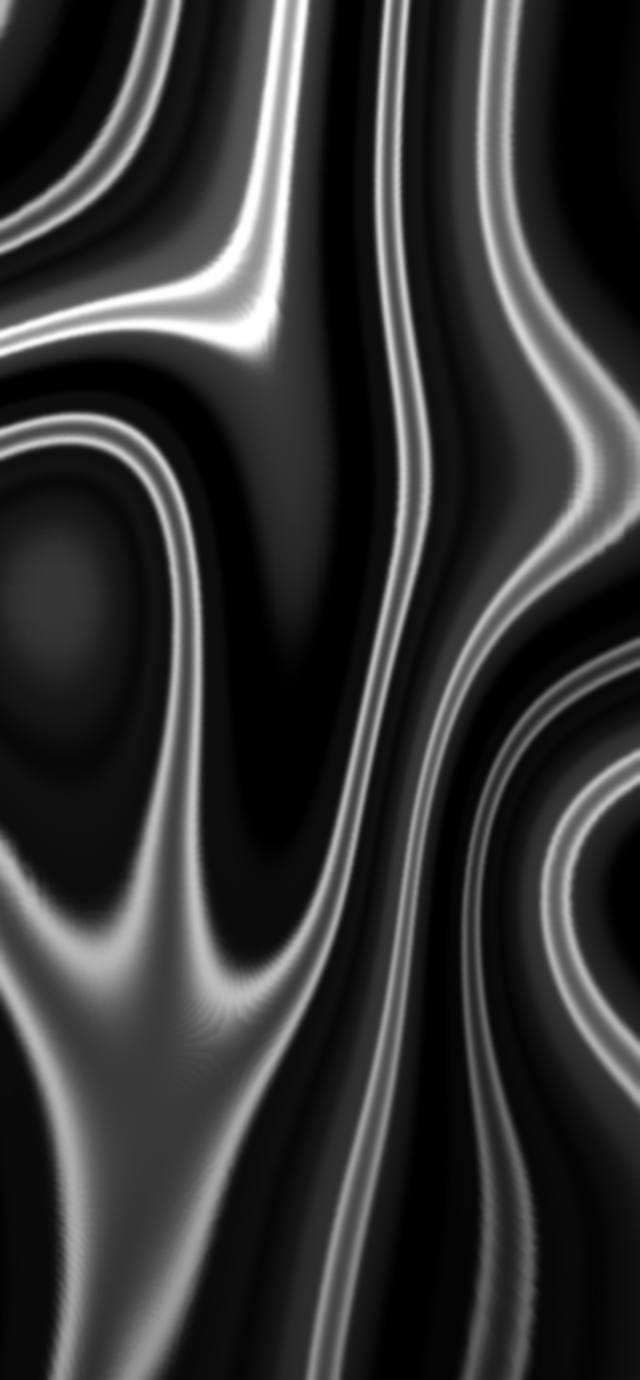
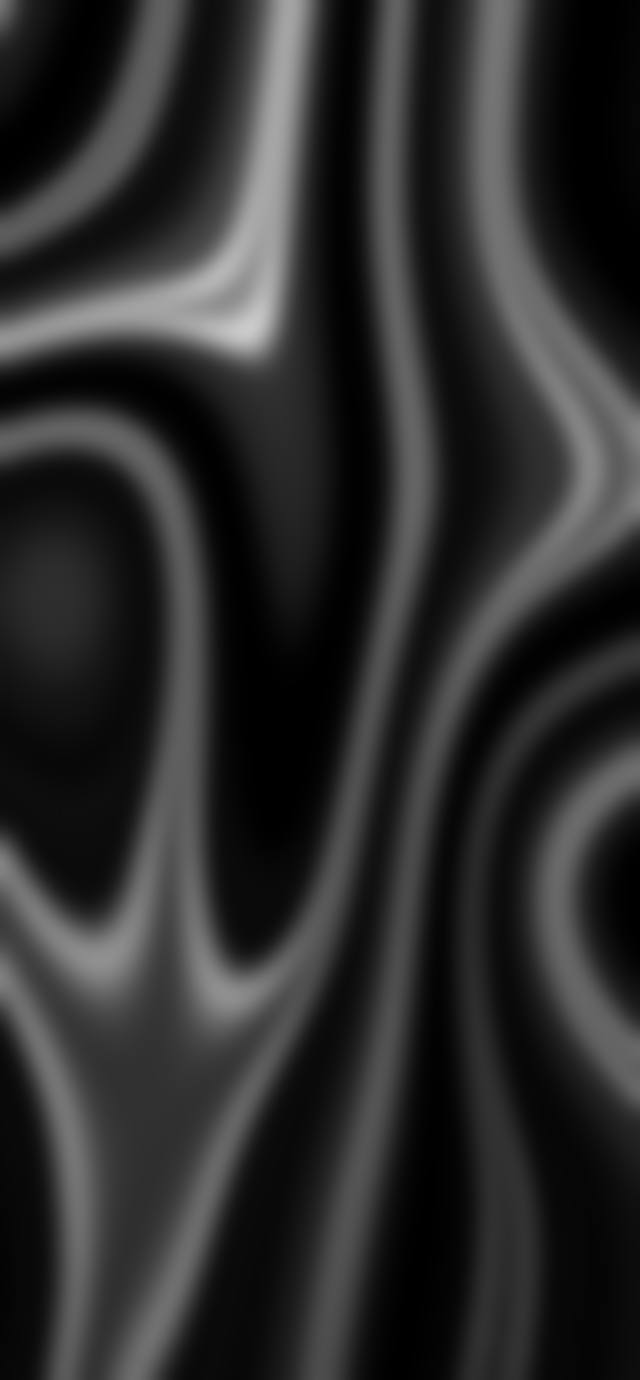
Add files via upload

diff --git a/summit.css b/summit.css
@@ -10,7 +10,7 @@ html:not(.dark) .hi-t b, html:not(.dark) .hi-t small, html:not(.dark) #largeTitl
 /* ---- Fondo: metal líquido teñido por el tema ---- */
 body::before { background-color: #000 !important; background-image: linear-gradient(rgb(var(--n-50) / .72), rgb(var(--n-50) / .84)), linear-gradient(var(--sm-tint), var(--sm-tint)), url(metal.jpg) !important;
   background-size: cover !important; background-position: center top !important; background-blend-mode: normal, color, normal !important; }
-html.dark body::before { background-image: linear-gradient(rgb(0 0 0 / .34), rgb(0 0 0 / .34)), linear-gradient(var(--sm-tint), var(--sm-tint)), url(metal.jpg) !important; }
+html.dark body::before { background-image: linear-gradient(180deg, rgb(0 0 0 / .3), rgb(0 0 0 / .55)), linear-gradient(var(--sm-tint), var(--sm-tint)), url(metal.jpg) !important; }
 
 /* ---- Saludo y botones redondos de arriba ---- */
 .hi { margin: 2px 0 6px; }
@@ -45,11 +45,11 @@ html.dark body::before { background-image: linear-gradient(rgb(0 0 0 / .34), rgb
 .wd-spark { color: rgb(var(--p-200)); top: 46px; width: 62%; height: 44px; }
 
 /* ---- Tarjetas y listas: vidrio oscuro grande en cualquier modo ---- */
-#appMain .rounded-\[20px\].bg-white:not(.yt-sec), html.dark #appMain .rounded-\[20px\].dark\:bg-slate-900:not(.yt-sec) {
+#appMain .rounded-\[20px\].bg-white, html.dark #appMain .rounded-\[20px\].dark\:bg-slate-900 {
   background: linear-gradient(160deg, rgb(255 255 255 / .085), rgb(255 255 255 / .02) 50%), var(--sm-glass) !important; border: 1px solid var(--sm-line) !important; border-radius: 30px !important; color: #fff;
   box-shadow: inset 0 1px 0 var(--sm-hi) !important; }
-#appMain .rounded-\[20px\]:not(.yt-sec) :is(.text-slate-800, .text-slate-900, .text-slate-700, .dark\:text-white) { color: #fff !important; }
-#appMain .rounded-\[20px\]:not(.yt-sec) :is(.text-slate-400, .text-slate-500, .text-slate-600) { color: rgb(255 255 255 / .62) !important; }
+#appMain .rounded-\[20px\] :is(.text-slate-800, .text-slate-900, .text-slate-700, .dark\:text-white) { color: #fff !important; }
+#appMain .rounded-\[20px\] :is(.text-slate-400, .text-slate-500, .text-slate-600) { color: rgb(255 255 255 / .62) !important; }
 #appMain h3.text-sm, #appMain .sec-h h3, #appMain .sec-h { color: #fff; }
 html:not(.dark) #appMain > h3, html:not(.dark) .sec-h { color: rgb(var(--n-900)); }
 
@@ -87,6 +87,17 @@ html.tab-home #largeTitle { display: none; }
 [data-hero] b, .ac-hero b, .sv-hero b, .tc-card b { font-weight: 400; letter-spacing: -.02em; }
 [data-hero] b[data-cu="have"], [data-hero] b[data-cu="due"], [data-hero] b[data-cu="svt"] { font-size: 15px; }
 
-#appMain .rounded-\[20px\]:not(.yt-sec) :is(.bg-slate-50, .bg-slate-100, .dark\:bg-slate-800) { background: rgb(255 255 255 / .09) !important; color: #fff; }
+#appMain .rounded-\[20px\] :is(.bg-slate-50, .bg-slate-100, .dark\:bg-slate-800) { background: rgb(255 255 255 / .09) !important; color: #fff; }
 html:not(.dark) #appMain .sec-h, html:not(.dark) #appMain .sec-h *, html:not(.dark) #appMain > h3 { color: rgb(var(--n-900)); }
 html:not(.dark) #appMain .sec-h button { color: inherit; }
+
+/* ---- Integración: filas de movimientos transparentes, barra superior de vidrio, tarjeta "Tu año" ---- */
+#appMain .swipe-in { background: #131519 !important; border-radius: 0 !important; padding-left: 12px; padding-right: 12px; border: 0 !important; }
+#appMain :has(> .swipe-in) { border-radius: 18px; overflow: hidden; margin-bottom: 6px; }
+html:not(.dark) #appMain .swipe-in { background: #22262b !important; }
+#appMain .rounded-\[20px\] .swipe-in { border-color: rgb(255 255 255 / .08); }
+.yt-sec { background: linear-gradient(160deg, rgb(255 255 255 / .09), rgb(255 255 255 / .02) 50%), var(--sm-glass) !important; border: 1px solid var(--sm-line) !important; color: #fff; }
+#topBar, #topBar.scrolled, html.dark #topBar { background: linear-gradient(180deg, rgb(0 0 0 / .45), transparent) !important; -webkit-backdrop-filter: none !important; backdrop-filter: none !important; border-bottom: 0 !important; box-shadow: none !important; }
+html:not(.dark) #topBar, html:not(.dark) #topBar.scrolled { background: linear-gradient(180deg, rgb(255 255 255 / .55), transparent) !important; }
+#navTitle, #navBack { color: #fff; }
+html:not(.dark) #navTitle, html:not(.dark) #navBack { color: rgb(var(--n-900)); }

diff --git a/sw.js b/sw.js
@@ -1,4 +1,4 @@
-const C = "miplata-v34", SHELL = ["./", "index.html", "styles.css", "mejoras.css", "pantallas.css", "estetica.css", "tailwind.css", "diseno.css", "fluido.css", "ahorro-cuentas.css", "serio.css", "cristal.css","summit.css","metal.jpg", "tema.js", "idioma.js", "idioma-datos.js", "estetica.js", "zoom.js", "logica.js", "pantallas.js", "vistas.js", "fluido.js", "acciones.js", "reporte.js", "rapido.js", "respaldo.js", "monedas.js", "nuevas.js", "herramientas.js", "manifest.json", "icon-192.png", "icon-512.png"];
+const C = "miplata-v35", SHELL = ["./", "index.html", "styles.css", "mejoras.css", "pantallas.css", "estetica.css", "tailwind.css", "diseno.css", "fluido.css", "ahorro-cuentas.css", "serio.css", "cristal.css","summit.css","metal.jpg", "tema.js", "idioma.js", "idioma-datos.js", "estetica.js", "zoom.js", "logica.js", "pantallas.js", "vistas.js", "fluido.js", "acciones.js", "reporte.js", "rapido.js", "respaldo.js", "monedas.js", "nuevas.js", "herramientas.js", "manifest.json", "icon-192.png", "icon-512.png"];
 // Instalar: se descarga todo saltándose la caché HTTP (GitHub Pages guarda 10 min), así una versión nueva nunca queda a medias
 self.addEventListener("install", e => { e.waitUntil(caches.open(C).then(c => Promise.all(SHELL.map(u => c.add(new Request(u, { cache: "reload" })))))); self.skipWaiting(); });
 self.addEventListener("activate", e => { e.waitUntil(caches.keys().then(k => Promise.all(k.filter(n => n != C).map(n => caches.delete(n)))).then(() => self.clients.claim())); });
